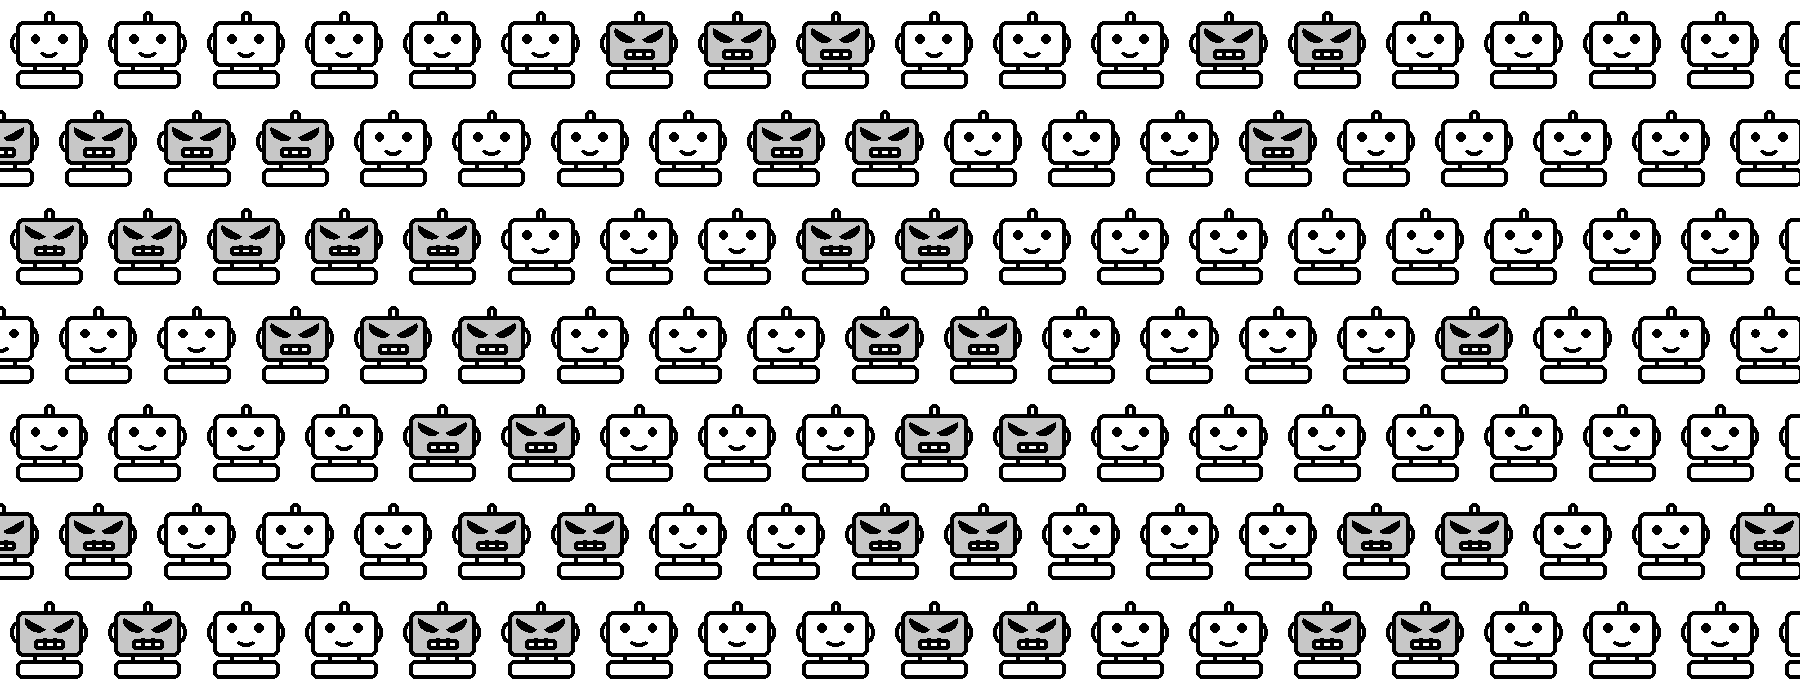
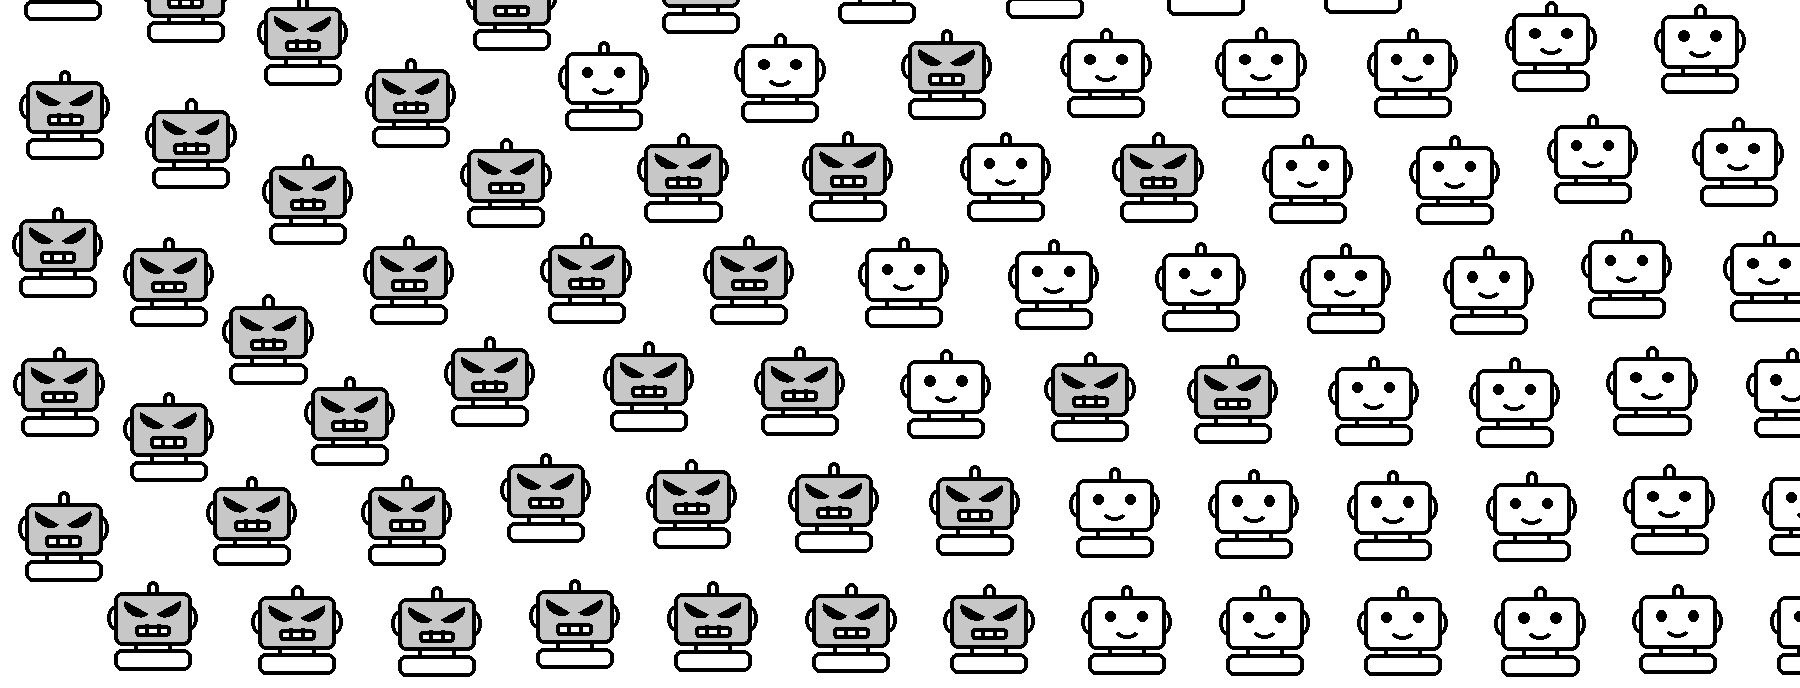
Lay the EM header robots out on rings around the bottom left

diff --git a/scripts/em_header.py b/scripts/em_header.py
@@ -51,28 +51,31 @@ def robot(d: ImageDraw.ImageDraw, x0: float, y0: float, s: float, evil: bool) ->
         d.arc(box(0.38, 0.44, 0.62, 0.60), start=20, end=160, fill=INK, width=lw)
 
 
-def header(
-    width: int, rows: int, seed: int = 3, wavelength: float = 4.5, band: float = 2, reach: float = 20, spread: float = 10
-) -> Image.Image:
+def header(width: int, rows: int, seed: int = 3, reach: float = 8, spread: float = 5) -> Image.Image:
+    """Robots sit on concentric rings around the bottom-left corner, evil near it and turning
+    friendly ring by ring as misalignment thins out; rows sets the robot size as height / rows."""
     height = round(width / RATIO)
     im = Image.new("L", (width, height), PAPER)
     d = ImageDraw.Draw(im)
     pitch = height / rows
     s = pitch * 0.82
     rng = np.random.default_rng(seed)
-    for r in range(rows):
-        offset = (pitch / 2) * (r % 2)
-        c = -1
-        while (x := c * pitch + offset) < width:
-            # Misalignment ripples out in rings from the bottom-left corner, thinning as it spreads.
-            dist = np.hypot(x + pitch / 2, height - (r + 0.5) * pitch) / pitch
-            in_ring = (dist % wavelength) < band
-            evil = in_ring and rng.random() < np.clip((reach - dist) / spread, 0, 1)
-            robot(d, x + (pitch - s) / 2, r * pitch + (pitch - s) / 2, s, evil)
-            c += 1
+    origin = np.array([0.0, height])
+    ring = 1
+    # Rings sit further apart than robots along a ring, so the arcs read as separate bands.
+    while (radius := (ring + 0.2) * pitch * 1.2) < np.hypot(width, height) + pitch:
+        # Evenly spaced around the quarter circle, skipping robots that fall off the canvas.
+        n = max(1, int(radius * np.pi / 2 / pitch))
+        for theta in (np.arange(n) + 0.5) / n * np.pi / 2:
+            cx, cy = origin + radius * np.array([np.cos(theta), -np.sin(theta)])
+            if not (-s / 2 < cx < width + s / 2 and -s / 2 < cy < height + s / 2):
+                continue
+            evil = rng.random() < np.clip((reach - ring) / spread + 0.5, 0, 1)
+            robot(d, cx - s / 2, cy - s / 2, s, evil)
+        ring += 1
     return im
 
 
 if __name__ == "__main__":
     out = Path(__file__).resolve().parent.parent / "src/routes/blog/emergent-misalignment-pareto/header.png"
-    header(1800, rows=7).save(out)
+    header(1800, rows=6).save(out)
